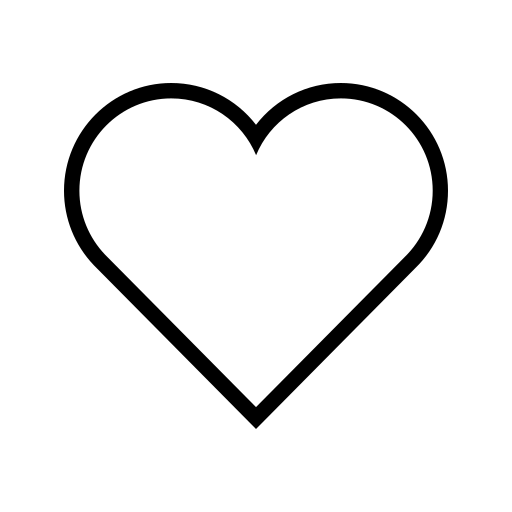
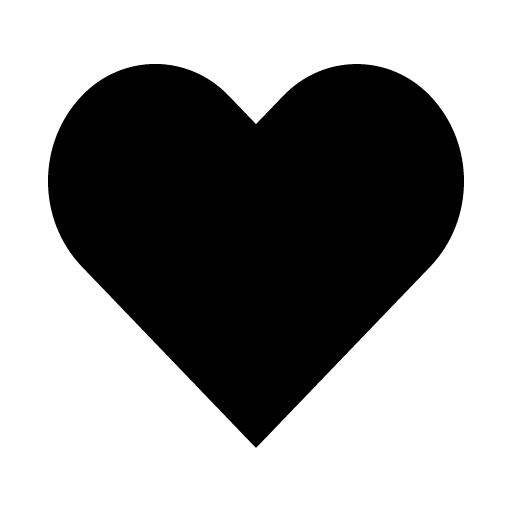
Commit: Реализованы кнопки для добавления аудио в избранное

diff --git a/MusicPlayer/MainWindow.xaml b/MusicPlayer/MainWindow.xaml
@@ -8,7 +8,7 @@
         xmlns:System="clr-namespace:System;assembly=mscorlib" x:Class="MusicPlayer.MainWindow"
         mc:Ignorable="d"
         Title="Аудиоплеер" Height="497" Width="811" Loaded="Window_Loaded"
-        Background="Gray">
+        Background="Gray" x:Name="windowMain">
     <Window.CommandBindings>
         <CommandBinding Command="local:MediaPlayerCommands.PlayOrPause"  Executed="Play_Or_Pause_Executed"/>
         <CommandBinding Command="local:MediaPlayerCommands.CycleAudioList"  Executed="CycleAudioList_Executed"/>
@@ -19,6 +19,7 @@
     <Window.Resources>
         <local:DateTimeToDateConverter x:Key="myDateConverter"/>
         <local:ImageConverter x:Key="myImgConverter"/>
+        <local:ImgFavoriteConverter x:Key="myImgFavoriteConverter"/>
     </Window.Resources>
     <Grid>
         <Grid.ColumnDefinitions>
@@ -90,23 +91,23 @@
                 </Button>
                 <MediaElement Name="mePlayer" LoadedBehavior="Manual" Stretch="None" />
             </StackPanel>
-            <Grid Grid.Column="1" Grid.Row="1" Background="Gray" MouseWheel="Grid_MouseWheel">
+            <Grid x:Name="gridInfAudio" Grid.Column="1" Grid.Row="1" Background="Gray" MouseWheel="Grid_MouseWheel">
                 <Grid.ColumnDefinitions>
                     <ColumnDefinition Width="Auto"/>
+                    <ColumnDefinition Width="0.05*"/>
                     <ColumnDefinition Width="*"/>
                 </Grid.ColumnDefinitions>
-                <StackPanel x:Name="spInfAudio" Grid.Column="0" Orientation="Horizontal" Background="Gray" Width="Auto">
+                <StackPanel x:Name="spInfAudio" Grid.Column="0" Orientation="Horizontal" Background="Gray" Width="Auto" MinWidth="200">
                     <Image x:Name="mainImage" Width="65" Height="50" Margin="0,0,7,6" Source="{Binding Image, Converter={StaticResource myImgConverter}}"/>
                     <StackPanel>
-                        <TextBlock x:Name="textBlock_Title" FontSize="14"> Пустенько...</TextBlock>
+                        <TextBlock x:Name="textBlock_Title" FontWeight="Bold" FontSize="14"> Пустенько...</TextBlock>
                         <TextBlock x:Name="textBlock_Musician" FontSize="11" Text="{Binding Group}"/>
                     </StackPanel>
-                    <Button x:Name="btnFavorite" Grid.Column="1" Width="40" Height="42"  Background="Gray" Margin="15,3,5,3" Click="btnFavorite_Click">
-                        <Image Source="Image/RedHeart.png" Width="25" Height="25"/>
-                    </Button>
                 </StackPanel>
-
-                <StackPanel HorizontalAlignment="Right" Orientation="Horizontal" Grid.Row="1" Grid.Column="1" MinWidth="100" MaxWidth="150">
+                <Button x:Name="btnFavorite" Grid.Column="1" Grid.Row="1" Width="44" Height="42" Margin="5,0,0,0" BorderThickness="0"  Background="Gray"  Click="btnFavorite_Click">
+                    <Image Source="{Binding Favorite, Converter={StaticResource myImgFavoriteConverter}, UpdateSourceTrigger=PropertyChanged, Mode=OneWay}" Width="25" Height="25"/>
+                </Button>
+                <StackPanel HorizontalAlignment="Right" Orientation="Horizontal" Grid.Row="1" Grid.Column="2" MinWidth="100" MaxWidth="150">
                     <Image x:Name="imageVolume" Source="Image/Volume.png" Width="25" Height="25" HorizontalAlignment="Center"/>
                     <TextBlock x:Name="textBlockVolumeStatus" Margin="0,18,0,0" MinWidth="20" TextAlignment="Center">
                         50
@@ -149,17 +150,50 @@
                 <TextBlock Text="Поиск" FontSize="20" Margin="8,5,5,5" />
                 <TextBox TextAlignment="Justify" FontSize="16"  HorizontalAlignment="Stretch" Margin="9,5,20,5" MinHeight="25"/>
             </StackPanel>
-            <ListBox Grid.Row="1" Grid.Column="1" x:Name="audiosList" SelectionChanged ="Selected_Audio">
+            <ListBox Grid.Row="1" Grid.Column="1" x:Name="audiosList" SelectionChanged ="Selected_Audio" HorizontalContentAlignment="Stretch">
+                <ListBox.Resources>
+                    <SolidColorBrush x:Key="{x:Static SystemColors.HighlightBrushKey}" Color="Red"/>
+                    <SolidColorBrush x:Key="{x:Static SystemColors.ControlBrushKey}" Color="Red"/>
+                </ListBox.Resources>
+                <ListBox.ItemContainerStyle>
+                    <Style TargetType="ListBoxItem">
+                        <Style.Triggers>
+                            <Trigger Property="IsSelected" Value="True" >
+                                <Setter Property="FontWeight" Value="Bold" />
+                                <Setter Property="Background" Value="Transparent" />
+                                <Setter Property="Foreground" Value="Black" />
+                            </Trigger>
+                        </Style.Triggers>
+                        <Style.Resources>
+                            <SolidColorBrush x:Key="{x:Static SystemColors.HighlightBrushKey}" Color="Transparent"/>
+                        </Style.Resources>
+                    </Style>
+                </ListBox.ItemContainerStyle>
                 <ListBox.ItemTemplate>
                     <DataTemplate>
-                        <StackPanel Orientation="Horizontal">
-                            <Image Source="{Binding Image, Converter={StaticResource myImgConverter}}" Width="50" Height="50" Margin="0,0,10,0"/>
-                            <StackPanel>
-                                <TextBlock Text="{Binding Title}" FontSize="16" VerticalAlignment="Center" />
-                                <TextBlock Text="{Binding Group}" FontSize="12" VerticalAlignment="Center" />
+                        <Grid>
+                            <Grid.ColumnDefinitions>
+                                <ColumnDefinition Width="*"/>
+                                <ColumnDefinition Width="0.05*"/>
+                            </Grid.ColumnDefinitions>
+                            
+                            <StackPanel Orientation="Horizontal" Grid.Column="0">
+                                <Image Source="{Binding Image, Converter={StaticResource myImgConverter}}" Width="50" Height="50" Margin="0,0,10,0"/>
+                                <StackPanel>
+                                    <TextBlock Text="{Binding Title}" FontSize="16" VerticalAlignment="Center" />
+                                    <TextBlock Text="{Binding Group}" FontSize="12" VerticalAlignment="Center" />
+                                </StackPanel>
                             </StackPanel>
 
-                        </StackPanel>
+                            <Button Grid.Column="1" Width="42" Height="44" Background="White" BorderThickness="0">
+                                <Button.Resources>
+                                    <Style TargetType="Border">
+                                        <Setter Property="CornerRadius" Value="20"/>
+                                    </Style>
+                                </Button.Resources>
+                                <Image Source="{Binding Favorite, Converter={StaticResource myImgFavoriteConverter}, UpdateSourceTrigger=PropertyChanged, Mode=OneWay}" Width="25" Height="25"/>
+                            </Button>
+                        </Grid>
                     </DataTemplate>
                 </ListBox.ItemTemplate>
             </ListBox>

diff --git a/MusicPlayer/RegistrationWindow.xaml b/MusicPlayer/RegistrationWindow.xaml
@@ -15,7 +15,7 @@
         <TextBlock TextWrapping="Wrap" Margin="78,70,299,331" FontSize="14" FontStyle="Italic"><Run Language="ru-ru" Text="Логин"/></TextBlock>
         <PasswordBox x:Name="pswBox1" HorizontalAlignment="Left" Margin="76,159,0,0" VerticalAlignment="Top" Width="268" Height="27" FontSize="14"/>
         <PasswordBox x:Name="pswBox2" HorizontalAlignment="Center" Margin="0,231,0,0" VerticalAlignment="Top" Width="268" Height="27" FontSize="14"/>
-        <TextBlock x:Name="txtBlockError" TextWrapping="Wrap" Margin="76,272,76,117" FontSize="14" TextDecorations="Underline"><Run Language="ru-ru"/></TextBlock>
+        <TextBlock x:Name="txtBlockError" TextAlignment="Center" TextWrapping="Wrap" Margin="50,272,50,117" FontSize="14" TextDecorations="Underline"><Run Language="ru-ru"/></TextBlock>
         <TextBlock TextWrapping="Wrap" Margin="106,357,118,43"><Run Language="ru-ru" Text="Уже есть аккаунт?"/>
             <Hyperlink Click="Hyperlink_Click">Авторизоваться</Hyperlink>
         </TextBlock>

diff --git a/MusicPlayer/ImgFavoriteConverter.cs b/MusicPlayer/ImgFavoriteConverter.cs
@@ -1,48 +1,34 @@
 using System;
 using System.Collections.Generic;
 using System.Globalization;
-using System.IO;
 using System.Linq;
 using System.Text;
 using System.Threading.Tasks;
-using System.Windows.Controls;
 using System.Windows.Data;
 using System.Windows.Media.Imaging;
 
 namespace MusicPlayer
 {
-    public class ImageConverter : IValueConverter
+    public class ImgFavoriteConverter : IValueConverter
     {
         public object Convert(object value, Type targetType, object parameter, CultureInfo culture)
         {
-
             BitmapImage bitmapImage;
-            if (value != null)
+            if ((bool)value)
             {
-                
-                bitmapImage = GetBitmapImage((byte[])value);
+                bitmapImage = new BitmapImage(new Uri(@"/MusicPlayer;component/Image/darkHeart.png", UriKind.RelativeOrAbsolute));
                 return bitmapImage;
             }
             else
             {
-                bitmapImage = new BitmapImage(new Uri(@"/MusicPlayer;component/Image/1.jpg", UriKind.RelativeOrAbsolute));
+                bitmapImage = new BitmapImage(new Uri(@"/MusicPlayer;component/Image/conturHeart.png", UriKind.RelativeOrAbsolute));
                 return bitmapImage;
             }
-
         }
 
         public object ConvertBack(object value, Type targetType, object parameter, CultureInfo culture)
         {
             throw new NotImplementedException();
-        }
-
-        public static BitmapImage GetBitmapImage(byte[] imageBytes)
-        {
-            var bitmapImage = new BitmapImage();
-            bitmapImage.BeginInit();
-            bitmapImage.StreamSource = new MemoryStream(imageBytes);
-            bitmapImage.EndInit();
-            return bitmapImage;
         }
     }
 }

diff --git a/AudioPlayerService/ServiceAudioPlayer.cs b/AudioPlayerService/ServiceAudioPlayer.cs
@@ -263,6 +263,31 @@ namespace AudioPlayerService
             }
         }
 
+        public void DeleteFavoriteAudio(int userId, int audioId)
+        {
+            try
+            {
+                sqlCommand = connection.CreateCommand();
+                sqlCommand.CommandText = "DELETE FROM FavoriteAudio WHERE UserId = @UserId AND AudioId = @AudioId";
+                sqlCommand.Parameters.AddWithValue("UserId", userId);
+                sqlCommand.Parameters.AddWithValue("AudioId", audioId);
+                sqlCommand.CommandType = System.Data.CommandType.Text;
+                connection.Open();
+                sqlCommand.ExecuteNonQuery();
+            }
+            catch (Exception)
+            {
+                throw;
+            }
+            finally
+            {
+                if (connection != null)
+                {
+                    connection.Close();
+                }
+            }
+        }
+
 
         public List<int> GetIdFavoriteAudio(int userId)
         {
@@ -270,10 +295,11 @@ namespace AudioPlayerService
             {
                 List<int> idFavorite = new List<int>();
                 sqlCommand = connection.CreateCommand();
-                sqlCommand.CommandText = "SELECT AudioId FROM FavoriteAudio";
+                sqlCommand.CommandText = "SELECT AudioId FROM FavoriteAudio WHERE UserId = @UserId";
+                sqlCommand.Parameters.AddWithValue("UserId", userId);
                 sqlCommand.CommandType = System.Data.CommandType.Text;
 
-                //connection.Open();
+
                 SqlDataReader reader = sqlCommand.ExecuteReader();
 
                 while (reader.Read())
@@ -296,6 +322,5 @@ namespace AudioPlayerService
                 }
             }
         }
-
     }
 }

diff --git a/MusicPlayer/MainWindow.xaml.cs b/MusicPlayer/MainWindow.xaml.cs
@@ -21,6 +21,8 @@ using System.Windows.Threading;
 using MusicPlayer.ServiceAudio;
 using System.Windows.Markup;
 using AudioPlayerService;
+using System.ComponentModel;
+using System.Runtime.CompilerServices;
 
 namespace MusicPlayer
 {
@@ -35,11 +37,10 @@ namespace MusicPlayer
         private DispatcherTimer timer = new DispatcherTimer();
         public ServiceAudioPlayerClient client;
         private ObservableCollection<Audio> audios;
-        private ObservableCollection<Audio> favoritesAudios;
+        //private ObservableCollection<Audio> favoritesAudios;
         //private string lastAudio = "";
         private int countAudio = 0;
         private User user;
-
 
         public MainWindow(ServiceAudioPlayerClient client, User user)
         {
@@ -190,7 +191,7 @@ namespace MusicPlayer
             mePlayer.Source = new Uri(audio.Path);
             //lastAudio = audio.Title;
             textBlock_Title.Text = audio.Title;
-            spInfAudio.DataContext = audios[audiosList.SelectedIndex];
+            gridInfAudio.DataContext = audios[audiosList.SelectedIndex];
         }
 
         //Команда на активацию цикла для аудио
@@ -281,7 +282,8 @@ namespace MusicPlayer
                 }
                 else
                 {
-                    //Удаление из избранного
+                    audios[audiosList.SelectedIndex].Favorite = false;
+                    client.DeleteFavoriteAudio(user.UserId, audioId);
                 }
 
 

diff --git a/MusicPlayer/Connected Services/ServiceAudio/Reference.cs b/MusicPlayer/Connected Services/ServiceAudio/Reference.cs
@@ -50,6 +50,12 @@ namespace MusicPlayer.ServiceAudio {
         
         [System.ServiceModel.OperationContractAttribute(IsOneWay=true, Action="http://tempuri.org/IServiceAudioPlayer/AddFavoriteAudio")]
         System.Threading.Tasks.Task AddFavoriteAudioAsync(int userId, int audioId);
+        
+        [System.ServiceModel.OperationContractAttribute(IsOneWay=true, Action="http://tempuri.org/IServiceAudioPlayer/DeleteFavoriteAudio")]
+        void DeleteFavoriteAudio(int userId, int audioId);
+        
+        [System.ServiceModel.OperationContractAttribute(IsOneWay=true, Action="http://tempuri.org/IServiceAudioPlayer/DeleteFavoriteAudio")]
+        System.Threading.Tasks.Task DeleteFavoriteAudioAsync(int userId, int audioId);
     }
     
     [System.CodeDom.Compiler.GeneratedCodeAttribute("System.ServiceModel", "4.0.0.0")]
@@ -125,6 +131,14 @@ namespace MusicPlayer.ServiceAudio {
         
         public System.Threading.Tasks.Task AddFavoriteAudioAsync(int userId, int audioId) {
             return base.Channel.AddFavoriteAudioAsync(userId, audioId);
+        }
+        
+        public void DeleteFavoriteAudio(int userId, int audioId) {
+            base.Channel.DeleteFavoriteAudio(userId, audioId);
+        }
+        
+        public System.Threading.Tasks.Task DeleteFavoriteAudioAsync(int userId, int audioId) {
+            return base.Channel.DeleteFavoriteAudioAsync(userId, audioId);
         }
     }
 }

diff --git a/AudioPlayerService/Audio.cs b/AudioPlayerService/Audio.cs
@@ -1,6 +1,8 @@
 using System;
 using System.Collections.Generic;
+using System.ComponentModel;
 using System.Linq;
+using System.Runtime.CompilerServices;
 using System.Runtime.Serialization;
 using System.Text;
 using System.Threading.Tasks;
@@ -8,8 +10,11 @@ using System.Threading.Tasks;
 namespace MusicPlayer
 {
     [DataContract]
-    public class Audio
+    public class Audio: INotifyPropertyChanged
     {
+        [DataMember]
+        private bool favorite = false;
+
         [DataMember]
         public int Id { get; set; }
 
@@ -29,7 +34,28 @@ namespace MusicPlayer
         public string Path { get; set; }
 
         [DataMember]
-        public bool Favorite { get; set; } = false;
+        public bool Favorite
+        {
+            get
+            {
+                return favorite;
+            }
+            set
+            {
+                favorite = value;
+                PropertyChange("Favorite");
+            }
+        }
+
+        public event PropertyChangedEventHandler PropertyChanged;
+
+        private void PropertyChange([CallerMemberName] string prop = "")
+        {
+            if (PropertyChanged != null)
+            {
+                PropertyChanged(this, new PropertyChangedEventArgs(prop));
+            }
+        }
     }
 
     public enum GenreType

diff --git a/AudioPlayerService/IServiceAudioPlayer.cs b/AudioPlayerService/IServiceAudioPlayer.cs
@@ -30,6 +30,9 @@ namespace AudioPlayerService
         [OperationContract(IsOneWay = true)]
         void AddFavoriteAudio(int userId,int audioId);
 
+        [OperationContract(IsOneWay = true)]
+        void DeleteFavoriteAudio(int userId, int audioId);
+
 
 
     }
